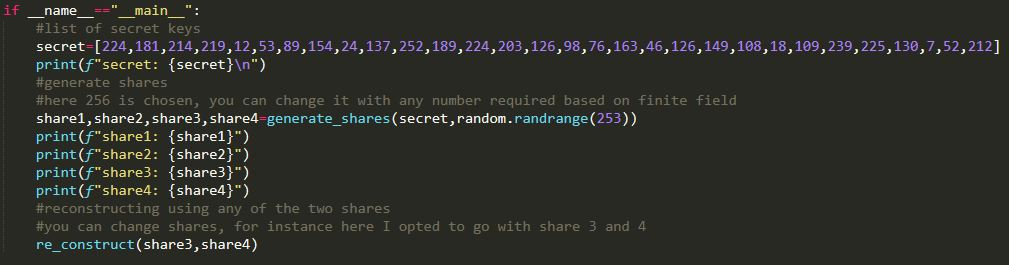
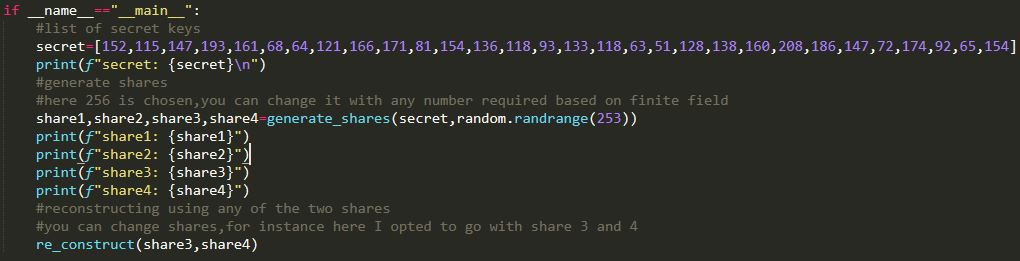
minor changes

Changed region(s): [[0.0307, 0.1533, 1.0, 0.9808], [0.0307, 0.0307, 0.2151, 0.1226]]

diff --git a/sss_with_gf256.py b/sss_with_gf256.py
@@ -23,7 +23,7 @@ def y_x(a0,a1,x):
 
 #lagranges function used for reconstruction
 def lagrange(x0,x1,y0,y1):
-	#havent done the mod operation using a prime number, how ever can be done if required
+	#havent done the mod operation using a prime number,how ever can be done if required
 	return int(((GF256(0)-(GF256(x1))/(GF256(x0)-GF256(x1)))*GF256(y0))+((GF256(0)-(GF256(x0))/(GF256(x1)-GF256(x0)))*GF256(y1)))
 
 def re_construct(share1,share2):
@@ -51,15 +51,15 @@ def generate_shares(secret,random_a1):
 
 if __name__=="__main__":
 	#list of secret keys
-	secret=[224,181,214,219,12,53,89,154,24,137,252,189,224,203,126,98,76,163,46,126,149,108,18,109,239,225,130,7,52,212]
+	secret=[152,115,147,193,161,68,64,121,166,171,81,154,136,118,93,133,118,63,51,128,138,160,208,186,147,72,174,92,65,154]
 	print(f"secret: {secret}\n")
 	#generate shares
-	#here 256 is chosen, you can change it with any number required based on finite field
+	#here 256 is chosen,you can change it with any number required based on finite field
 	share1,share2,share3,share4=generate_shares(secret,random.randrange(253))
 	print(f"share1: {share1}")
 	print(f"share2: {share2}")
 	print(f"share3: {share3}")
 	print(f"share4: {share4}")
 	#reconstructing using any of the two shares
-	#you can change shares, for instance here I opted to go with share 3 and 4
+	#you can change shares,for instance here I opted to go with share 3 and 4
 	re_construct(share3,share4)
